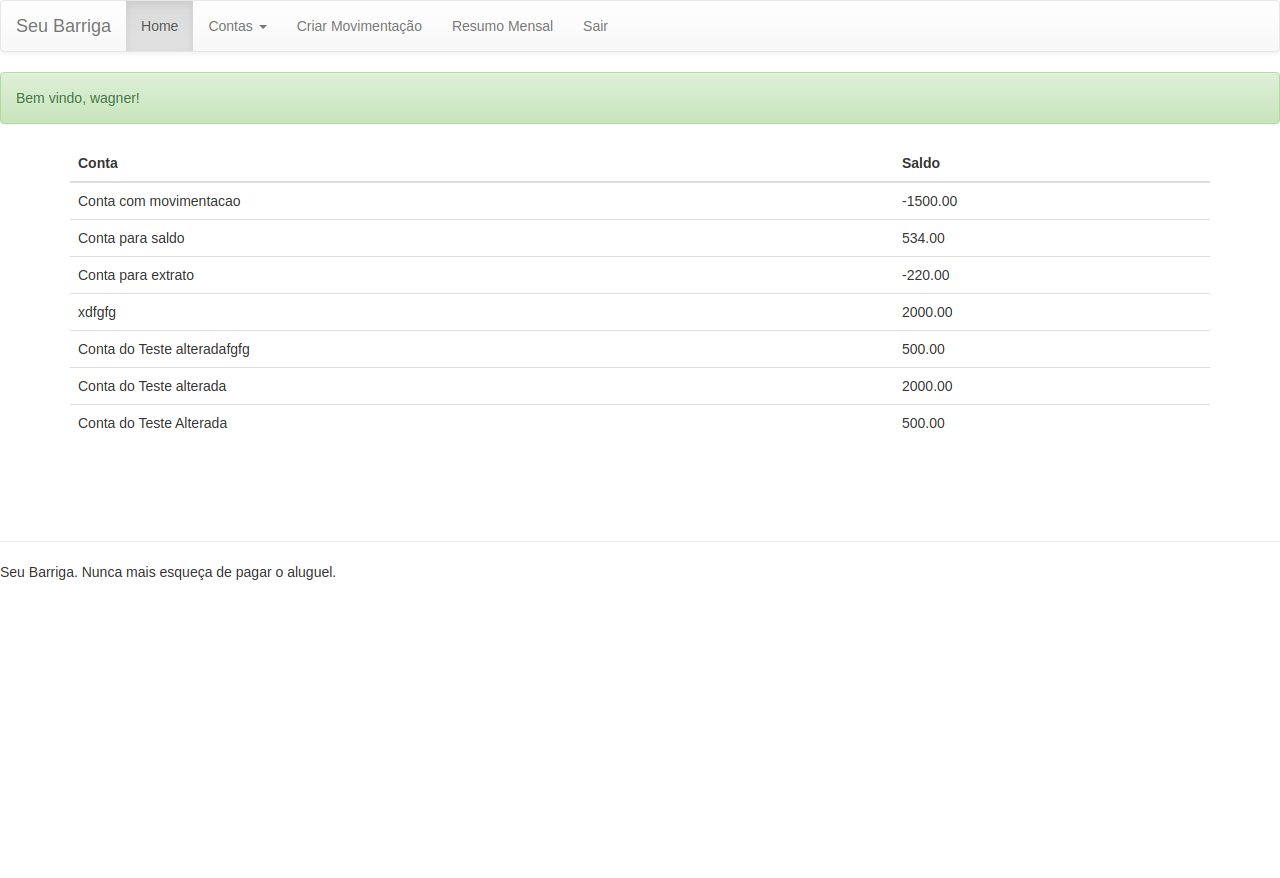
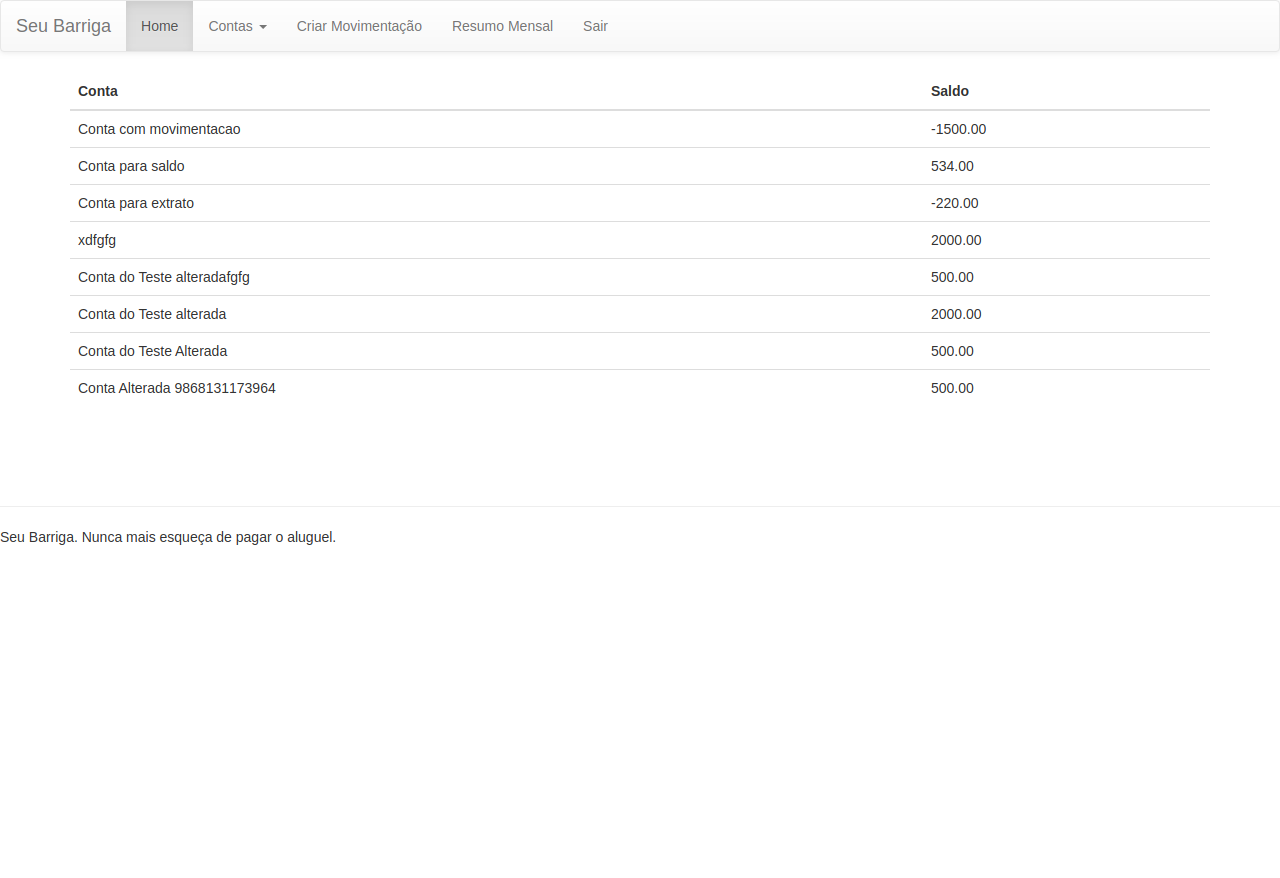
Teste do Resumo Mensal

Changed region(s): [[0.0, 0.0615, 1.0, 0.492], [0.0, 0.6458, 0.25, 0.6765], [0.0, 0.5843, 0.25, 0.615]]

diff --git a/src/main/java/tests/ResumoTest.java b/src/main/java/tests/ResumoTest.java
@@ -6,8 +6,14 @@ import org.junit.Assert;
 import org.junit.FixMethodOrder;
 import org.junit.Test;
 import org.junit.runners.MethodSorters;
+import org.openqa.selenium.By;
+import org.openqa.selenium.NoSuchElementException;
+import org.openqa.selenium.WebElement;
 import pages.MenuPage;
 import pages.ResumoPage;
+
+import java.sql.Driver;
+import java.util.List;
 
 @FixMethodOrder(MethodSorters.NAME_ASCENDING)
 public class ResumoTest extends BaseTest {
@@ -29,5 +35,9 @@ public class ResumoTest extends BaseTest {
         menuPage.acessarTelaResumo();
 
         Assert.assertEquals("Seu Barriga - Extrato", DriverFactory.getDriver().getTitle());
+
+        List<WebElement> elementosEncontrados =
+                DriverFactory.getDriver().findElements(By.xpath("//*[@id='tabelaExtrato']/tbody/tr"));
+        Assert.assertEquals(0, elementosEncontrados.size());
     }
 }

diff --git a/src/main/java/suites/SuiteGeral.java b/src/main/java/suites/SuiteGeral.java
@@ -7,16 +7,14 @@ import org.junit.BeforeClass;
 import org.junit.runner.RunWith;
 import org.junit.runners.Suite;
 import pages.LoginPage;
-import tests.ContaTest;
-import tests.MovimentacaoTest;
-import tests.RemoverMovimentacaoContaTest;
-import tests.ResumoTest;
+import tests.*;
 
 @RunWith(Suite.class)
 @Suite.SuiteClasses({
         ContaTest.class,
         MovimentacaoTest.class,
         RemoverMovimentacaoContaTest.class,
+        SaldoTest.class,
         ResumoTest.class
 })
 

diff --git a/src/main/java/tests/SaldoTest.java b/src/main/java/tests/SaldoTest.java
@@ -5,12 +5,15 @@ import core.Propriedades;
 import org.junit.Assert;
 import org.junit.Test;
 import pages.HomePage;
+import pages.MenuPage;
 
 public class SaldoTest extends BaseTest {
     HomePage homePage = new HomePage();
+    MenuPage menu = new MenuPage();
 
     @Test
     public void testSaldoConta(){
+        menu.acessarTelaPrincipal();
         Assert.assertEquals("500.00", homePage.obterSaldoConta(Propriedades.NOME_CONTA_ALTERADA));
     }
 }

diff --git a/src/main/java/pages/MenuPage.java b/src/main/java/pages/MenuPage.java
@@ -21,4 +21,8 @@ public class MenuPage extends BasePage {
     public void acessarTelaResumo() {
         clicarLink("Resumo Mensal");
     }
+
+    public void acessarTelaPrincipal() {
+        clicarLink("Home");
+    }
 }
